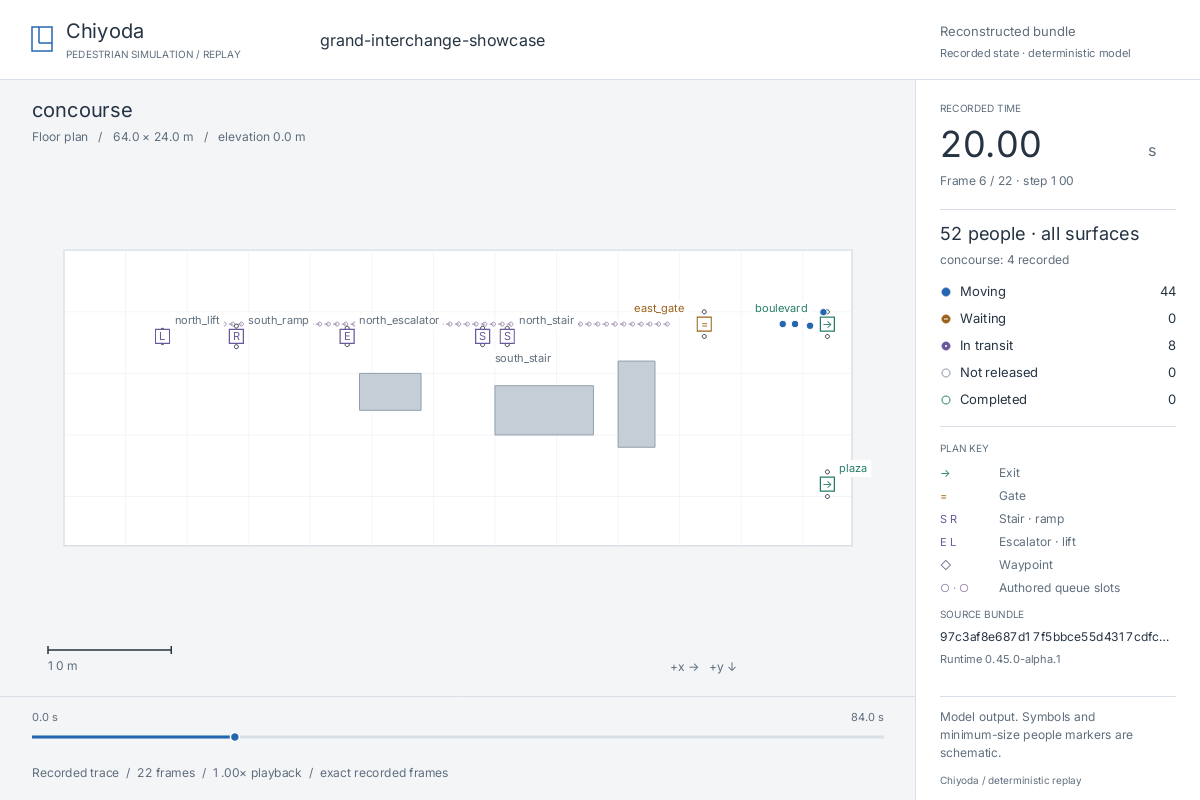
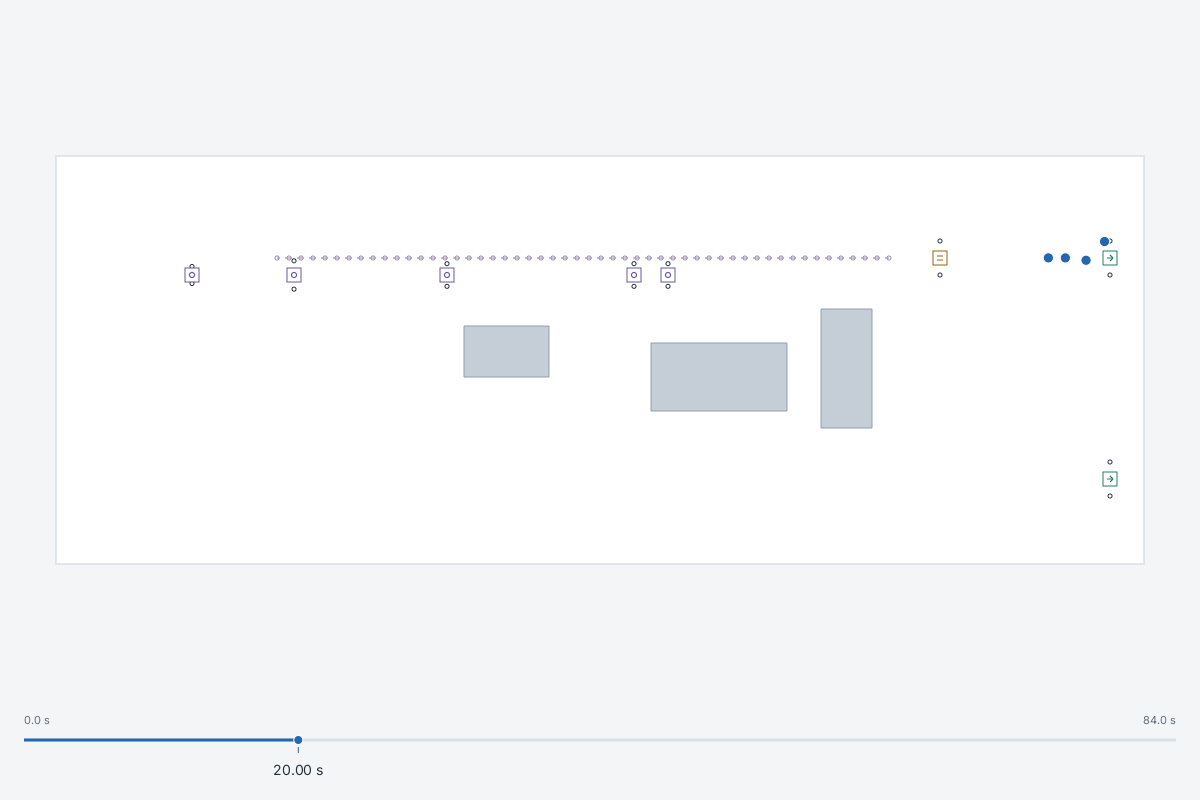
Refresh bare simulation previews and document verified rendering behavior

diff --git a/docs/replay.md b/docs/replay.md
@@ -36,10 +36,9 @@ does not mutate a running simulation. The default watch trace cadence is one
 integration step, which affects display smoothness only.
 
 An invalid edit leaves the most recent valid scene and trace on screen. The
-terminal prints the complete JSON, validation, or runtime diagnostic; the
-window and an in-canvas diagnostic panel identify the failed revision. Before
-the first valid source revision, the viewer displays an empty debug canvas with
-the current status and any read error.
+terminal prints the complete JSON, validation, or runtime diagnostic. Before
+the first valid source revision, the viewer displays an empty simulation canvas
+and an inactive progress track. Status and errors stay in the terminal.
 
 Watch runs are intentionally in-memory, unpersisted debug results. They are
 not hash-verified bundles and cannot be cited as a replayable experiment
@@ -62,7 +61,7 @@ included in full reconstruction; see [local knowledge](knowledge.md).
 
 ## Controls
 
-- Click a person to inspect it; Shift-click an exit, gate, connector endpoint,
+- Click a person to highlight it; Shift-click an exit, gate, connector endpoint,
   or waypoint to prefer the resource. Click empty plan space to clear selection.
 - Wheel or `+`/`-` zooms. Wheel zoom keeps the point under the pointer fixed.
   Drag with the right or middle button to pan. R restores the authored extent;
@@ -74,9 +73,6 @@ included in full reconstruction; see [local knowledge](knowledge.md).
 - Tab cycles surfaces in their authored declaration order. In comparisons,
   only IDs present in both runs are available.
 - V toggles the selected-surface 2D view and all-surface isometric overview.
-- D toggles the selected person's or resource's inspector. The single-run plan
-  uses the full width when no inspector is open. Clearing selection restores
-  that full plan; time, recorded step and outcome counts remain visible.
 - P writes the current framebuffer as a PNG under `--snapshot-dir` (default
   `out/chiyoda`). Existing snapshots are preserved. For evidence with
   provenance, use `--export-png` instead.
@@ -97,9 +93,11 @@ $ chiyoda view out/station/arms/baseline/run.json --paused --at-step 100 --agent
 $ chiyoda view out/station/arms/baseline/run.json --paused --resource exit:south
 ```
 
-The person inspector shows recorded state, the authored goal, latest recorded
-route decision, recent information/service events, and whole-run journey totals.
-Structured evidence also retains the recorded beliefs/knowledge snapshot. The authored destination is not presented as the
+Selection highlights the person and its recorded trail without opening a
+sidebar or changing the camera. PNG evidence sidecars and the agent tool retain
+recorded state, the authored goal, latest recorded route decision, recent
+information/service events, whole-run journey totals, and the recorded
+beliefs/knowledge snapshot. The authored destination is not presented as the
 current chosen destination. Where the runtime recorded a decision in event
 text, that text is retained without inventing an unrecorded route.
 
@@ -108,9 +106,9 @@ selected frame. It omits inactive and connector-transit segments. The last
 2,000 points are retained; `--trail-start-step N` can narrow the interval in a
 single-run view.
 Comparisons use each selected person's retained trail through its own frame.
-A trail is a sampled visual aid, not the distance measurement. Amber timeline
-bands show retained whole-run low-progress windows; ticks show retained
-recorded events through the frame.
+A trail is a sampled visual aid, not the distance measurement. Low-progress
+trail segments are amber. Low-progress windows and recorded events remain in
+the JSON evidence; the progress bar has no diagnostic bands or event ticks.
 
 Detailed distance, moving time, service waits, authored pauses, low-progress
 windows and movement fallback counts require the current runtime and a trace
@@ -119,12 +117,13 @@ recorded events, with an explicit unavailable reason for detailed accounting.
 Inspection re-derives journey accounting with the default analyzer options and
 records those options and the derived report hash. Separate journey reports
 with custom thresholds or isolated-agent controls retain their own evidence;
-the inspector does not import those controls. Whole-run totals and low-progress
+image evidence does not import those controls. Whole-run totals and low-progress
 windows include the complete run, even when viewing an earlier frame. Low progress is a diagnostic of movement exposure,
 not an additional mutually exclusive time-budget category.
 
-Resource inspection shows authored geometry, whole-run queue audit measurements,
-and recorded queue/service/availability events through the selected frame.
+Resource selection highlights its authored endpoints. JSON evidence retains
+whole-run queue audit measurements and recorded queue/service/availability
+events through the selected frame.
 Highlighted entrants are historical entrants through that time, not inferred
 current queue membership. The runtime does not record resource-attributed
 per-person wait durations; the viewer does not estimate them from proximity.
@@ -140,23 +139,26 @@ $ chiyoda view out/station/arms/baseline/run.json --compare out/station/arms/ann
 Both panels share one camera, authored coordinate extent, selected surface ID,
 and simulation clock. Different floor dimensions therefore keep the same metric
 scale. At a shared time, each panel shows its last recorded frame at or before
-that time; its exact timestamp and any hold duration remain visible. Seeking is
-restricted to the intersection of the recorded intervals. Missing surface IDs
-are rejected rather than matched by declaration order.
+that time; its exact timestamp and any hold duration remain in the JSON
+evidence. Seeking is restricted to the intersection of the recorded intervals.
+Missing surface IDs are rejected rather than matched by declaration order.
 
-Current-frame completion counts are separate from whole-run outcomes. The latter
-retain each run's own duration. Unfinished clearance and elapsed journeys remain
-unavailable. Population pairing requires equal seed and authored population
-inputs, excluding the knowledge intervention; a changed population disables
-individual elapsed-time pairing. A selected ID absent from one run is labelled
-unavailable in that panel. These are descriptive model observations; use the
-experiment report's validity and performance checks to assess an intervention.
+The comparison sidecar keeps current-frame completion counts separate from
+whole-run outcomes. The latter retain each run's own duration. Unfinished
+clearance and elapsed journeys remain unavailable. Population pairing requires
+equal seed and authored population inputs, excluding the knowledge intervention;
+a changed population disables individual elapsed-time pairing. A selected ID
+absent from one run has an unavailable reason in that panel's JSON evidence.
+These are descriptive model observations; use the experiment report's validity
+and performance checks to assess an intervention.
 
 Zoom, pan, timeline seeking, speed, projection, floor selection and person/resource
-selection operate together across both panels. Labels come from the input
-bundles' parent directory names. The PNG and `PATH.json` comparison sidecar use
-`chiyoda.replay-comparison.v1`, with both source hashes, shared camera bounds,
-recorded timestamps, request, selected evidence and measured differences.
+selection operate together across both panels. The baseline is always on the
+left and the candidate on the right. Neither pane has a visible label; the
+sidecar retains labels from the input bundles' parent directory names. The PNG
+and `PATH.json` comparison sidecar use `chiyoda.replay-comparison.v1`, with both
+source hashes, shared camera bounds, recorded timestamps, request, selected
+evidence and measured differences.
 
 ## Exact-frame PNG export
 
@@ -180,7 +182,7 @@ exclusive and cannot watch live source.
 
 Add `--agent ID` or `--resource KIND:ID` to export an annotated frame. The
 `chiyoda.replay-evidence.v1` sidecar includes the exact evidence used to draw the
-inspector, image SHA-256, source hashes, recorded timestamp, JSON pointers,
+selection highlights, image SHA-256, source hashes, recorded timestamp, JSON pointers,
 journey analyzer version/options/report hash, bounded events and trail. The
 native viewer and headless export share the same renderer.
 
@@ -224,11 +226,11 @@ The same recorded moment is available as an [isometric overview](../assets/demo/
 Both PNGs and the [showcase GIF](../assets/demo/grand-interchange-showcase.gif)
 have adjacent JSON provenance sidecars. They were exported from the current
 runtime's `grand-interchange-showcase` run, with a trace cadence of 20 steps.
-Their sidecars retain the renderer revision used for those earlier previews.
+The previews use renderer revision 5, with only the simulation and progress bar.
 
 The station experiment also has current annotated examples: a
-[person and low-progress periods](../assets/demo/replay-person.png), a
-[resource queue audit](../assets/demo/replay-resource.png), and a
+[person selection](../assets/demo/replay-person.png), a
+[resource selection](../assets/demo/replay-resource.png), and a
 [synchronized comparison](../assets/demo/replay-comparison.png). Each PNG has
 an adjacent `PNG.json` sidecar. Reproduce the source runs with
 `python3 examples/experiments/compare_station.py --output out/station --replay`,
@@ -244,40 +246,35 @@ $ chiyoda view out/showcase/run.json --surface concourse --at-step 100 --view ov
 
 ## Visual presentation
 
-The viewer uses one 1200×800 CPU vector renderer for native playback, PNGs,
-and GIFs. Single-run and comparison views share compact headings, outcome rows
-and the same full-width timeline. The time label follows the playhead and stays
-inside the timeline at either end. A single run uses the full plan width until
-a person or resource is selected; its contextual inspector then opens beside
-the plan. Branding banners, permanent dashboard legends and keyboard-help
-footers are omitted in both modes.
+The viewer uses one 1200×800 CPU vector renderer for native playback, plain and
+selected PNGs, GIFs, comparison images, and MCP image results. Every mode shows
+only the simulation and a progress bar. The bar retains start/end timestamps
+and the current time attached to its playhead. Before a watched scenario is
+available, only the inactive track is drawn.
 
-Spatial layers are clipped to the current plan viewport, including markers
-outside the camera extent. Drawing, mouse selection, zoom and focus use the
-same geometry when the inspector opens or closes. Watch failures retain the
-last valid plan and identify the failed revision below it.
+The scene always uses the same viewport, including when a person or resource
+is selected. Comparisons use two equally sized simulation panes and one shared
+bar. There are no headings, outcome rows, inspector panels, legends, map labels,
+scale bars, axis captions, metric grids, diagnostic timeline marks, or status
+banners. The native window title is simply `Chiyoda`.
 
-Floor plans preserve metric proportions with a uniform scale, a quiet metric
-grid, and a scale bar. The camera follows authored surface bounds rather than
+Spatial layers are clipped to the scene viewport. Drawing, mouse selection,
+zoom and focus use the same geometry. Floor plans preserve metric proportions
+with a uniform scale; the camera follows authored surface bounds rather than
 people's current positions. The overview uses the same fixed isometric
-projection for every surface and labels their authored elevations; overlapping
-floors can occlude geometry, so use a floor plan for detailed inspection.
+projection for every surface. Overlapping floors can occlude geometry, so use
+a floor plan for detailed inspection.
 
-Text uses a bundled Inter font under its included SIL Open Font License;
-no font installation or network connection is required. Timestamps and counts
-use tabular digits. Long names are ellipsized, and unavailable glyphs display
-as `?`. This is basic font rasterization, not a full text-shaping system.
-Resource labels are placed where space permits; dense plans may omit a label
-while retaining its symbol. Connector symbols identify stairs (`S`), ramps
-(`R`), escalators (`E`), and lifts (`L`).
+Timeline text uses the bundled Inter font with tabular digits. Export sidecars
+retain source hashes, renderer version, bundled font hash, selections and
+measurements. Watch errors and legacy hash-only notices stay in the terminal;
+images do not acquire warning or status overlays.
 
-The compact subtitle identifies legacy hash-only artifacts and unpersisted live
-previews. Export sidecars record the renderer version and bundled font hash.
-The unified presentation uses renderer revision **4**. Previously exported
-images keep their recorded revision; their source/hash checks remain available.
+The minimal presentation uses renderer revision **5**. Previously exported
+images keep their recorded revision; source/hash checks remain available.
 Exact pixel reconstruction requires the recorded renderer revision. The
-renderer is a derived presentation contract; changing its pixels does not change
-canonical simulation evidence.
+renderer is a derived presentation contract; changing its pixels does not
+change canonical simulation evidence.
 
 ## Rendering contract
 
@@ -290,16 +287,14 @@ blue, all released waits amber, in-transit agents purple, unreleased people
 hollow grey, and completed journeys hollow green. Moving people use filled
 circles; waits carry a small horizontal mark and transit markers a white centre.
 Inactive records are drawn first so an unreleased or completed record does not
-cover an active person at a shared position. Counts always include every
-recorded person, including inactive records. Outcome rows report all-surface
-counts and distinguish the displayed frame from the whole run.
-In-transit and unreleased people are included in the frame summary whenever
-present, so multi-floor transfers and staggered arrivals remain visible.
+cover an active person at a shared position. Structured evidence retains
+all-surface frame counts and whole-run outcomes, including in-transit and
+unreleased records; these measurements are not drawn on the canvas.
 
 People markers follow their authored group radius, with a 2.5-pixel minimum for
-legibility. Symbol outlines, minimum-size markers, and resource glyphs are
+legibility. Symbol outlines, minimum-size markers, and resource marks are
 schematic; their screen sizes do not measure crowd density or portal width.
-Static symbols distinguish waypoints, exits, gates, connector class, portal-lane
+Static symbols distinguish waypoints, exits, gates, connector endpoints, portal-lane
 centres, and queue geometry. The queue path and slots are authored placement
 geometry, not a measured queue, a claimed standing obstruction, or a density
 visualization.
@@ -349,5 +344,10 @@ On macOS, `scripts/replay_native_smoke.py --help` describes a repeatable check
 using OS keyboard/mouse events and Accessibility window inspection. It requires
 existing Accessibility access and Xcode tools, opens its own viewer, writes a new
 review directory, and restores the prior frontmost application and pointer.
-See the [inspection review](inspectable-replay-review.md) for measured results,
-reviewed outputs and verification limits.
+It compares native screenshots with headless reference PNGs rather than relying
+on diagnostic text in the window title. `scripts/replay_watch_smoke.py` checks
+missing-source, valid, invalid and corrected-source states against the same
+renderer. Both scripts require a new output directory. See the
+[minimal visualization review](minimal-visualization-review.md) for current
+results and the [inspection review](inspectable-replay-review.md) for earlier
+crowd measurements and verification limits.

diff --git a/docs/minimal-visualization-review.md b/docs/minimal-visualization-review.md
@@ -1,0 +1,101 @@
+# Minimal visualization review
+
+Full review of renderer revision 5. Scope: single runs, comparisons, selected
+people/resources, live watch, PNG/GIF exports, MCP images and committed previews.
+The implementation retains the existing minifb window, tiny-skia CPU canvas,
+bundled Inter font and semantic geometry colours. README.md is unchanged.
+
+Every visualization contains only the simulation and progress bar. Single runs
+use one fixed scene viewport; comparisons show the baseline on the left and
+candidate on the right. Selection adds spatial highlights and trails. Detailed
+measurements, IDs, route events, held-frame timestamps and provenance remain in
+JSON evidence and agent results. Watch errors and legacy notices remain in the
+terminal. The operating-system window title is `Chiyoda`.
+
+## Coverage
+
+| Category | Evidence inspected | Result |
+| --- | --- | --- |
+| Typography | Timeline drawing, numeric glyph advances and render-time text records | Only three timestamp labels are drawn for a loaded run. They use the existing tabular digits. Empty watch canvases have no text. |
+| Surfaces | Both projections, single/comparison clipping and transformed hit tests | The enlarged scene has fixed bounds. Selecting and clearing do not reserve space for a sidebar. |
+| Animations | Recorded-frame clock tests, GIF timing/export tests, regenerated floor/overview GIFs and native playback/seek checks | No cosmetic motion or new interpolation. Manual viewing at 10% speed is not verified. |
+| Icons | Exit, gate, connector and waypoint drawing; people and selected trails | Resource glyph text is replaced by geometric marks. Existing state colours and filled/hollow people remain. |
+| Performance | Persistent canvas/glyph/palette caches and native redraw reuse | Removing chrome does not add a drawing framework, external font or per-frame analysis pass. No new large-crowd benchmark was performed. |
+
+## Addressed findings
+
+Locations below are relative to `crates/chiyoda-replay/src/` unless specified.
+
+| Severity | Location | Before | After | Why |
+| --- | --- | --- | --- | --- |
+| MEDIUM | `render/mod.rs:132`, `render/compare.rs:12` | Titles, frame metadata, outcomes and selection summaries surround the simulation | Scene drawing followed only by the shared timeline | Apply the requested bare presentation to every renderer caller. |
+| MEDIUM | Removed `render/inspector.rs`, `render/scene.rs:17`, `viewer/native.rs:277` | Selecting a person opens a sidebar and changes the camera fit | One fixed viewport, shared by drawing and picking | Selection must not reintroduce panels or move the simulation. |
+| MEDIUM | `render/scene.rs:295` | Resource IDs, connector letters, floor names, grid, scale and axis/footer annotations | Authored geometry, resource marks, people and spatial selection only | Remove secondary visual furniture while preserving simulated geometry. |
+| MEDIUM | `render/chrome.rs:14`, `render/mod.rs:33` | Diagnostic ticks/bands and different time captions | Identical numeric timestamps and playhead; shared 64-pixel seek target | Retain one restrained bar and a usable desktop hit area. |
+| MEDIUM | `viewer/native.rs:129`, `viewer/mod.rs:247` | Changing title, loading copy and in-canvas errors | Fixed window name, blank loading scene and terminal diagnostics | Empty and failure states follow the same visual scope. |
+| MEDIUM | `evidence.rs:1`, `crates/chiyoda-cli/src/agent/tools.rs:120` | Evidence images include a text inspector | Spatial selection image plus unchanged structured measurements | Preserve agent capability while removing visual panels. |
+| MEDIUM | `scripts/replay_native_smoke.py:86`, `scripts/replay_watch_smoke.py:25` | Native checks depend on verbose titles and a narrower selected viewport; watch state changes lack a native pixel check | Compare window snapshots with exact headless PNGs and exercise watch failure/recovery | Validate controls without restoring the removed UI for automation. |
+| MEDIUM | `assets/demo/`, `docs/replay.md:246` | Bundled previews and documentation describe dashboards | Revision 5 previews and current behavior documentation | Keep examples consistent with the implementation. |
+
+## Considered but rejected
+
+| Location | Candidate | Rejected because |
+| --- | --- | --- |
+| Renderer options | Add an opt-in minimal theme beside the old dashboard | The requested behavior applies to every visualization. |
+| Evidence export | Remove diagnostic fields along with their panels | Agents and study analysis still need structured evidence. |
+| Spatial layout | Stretch geometry to fill the scene | Uniform metric proportions remain necessary for architecture comparisons. |
+
+## Verification
+
+The CLI/replay suite passed **83 tests**, including 14 agent/MCP checks, exact
+PNG receipts, campaign renderer-mismatch checks, both GIF timing paths, sparse
+evidence, source immutability and transformed picking. Formatting, workspace
+Clippy, locked release compilation and headless checks passed:
+
+```console
+CARGO_PROFILE_TEST_OPT_LEVEL=2 cargo test -p chiyoda -p chiyoda-replay --locked
+cargo fmt --all -- --check
+cargo clippy --workspace --all-targets --locked -- -D warnings
+cargo check -p chiyoda --all-targets --no-default-features --locked
+cargo check -p chiyoda-replay --lib --no-default-features --locked
+cargo build --release --locked -p chiyoda
+```
+
+Render-time assertions inspect every text draw and reject any text outside the
+timeline in both projections, with no selection, a person and a resource, in
+single and comparison views. Pixel checks reject chrome outside scene/timeline
+bounds. The empty-scene check permits only an unlabelled inactive track.
+Review captures were saved with `CHIYODA_REPLAY_REVIEW_DIR` and inspected.
+
+Actual macOS OS-input checks completed **25 checks for the single run and 27
+for comparison**, using the optimized debug binary. Ten window snapshots match
+headless references exactly, including selected views, zoom and overview.
+Both report only `Chiyoda` as their window title. The single-run driver measured
+29.36 window updates/s and the comparison 29.47; these include pacing and the
+reference exports, and are not a new crowd-performance claim.
+
+```console
+python3 scripts/replay_native_smoke.py --binary target/debug/chiyoda --bundle out/minimal-visualization-review/interactive/run.json --agent concourse_arrivals:0 --at-step 100 --output out/minimal-visualization-review/native-single
+python3 scripts/replay_native_smoke.py --binary target/debug/chiyoda --bundle out/minimal-visualization-review/station/arms/baseline/run.json --candidate out/minimal-visualization-review/station/arms/announcement/run.json --agent passengers:4 --at-step 100 --output out/minimal-visualization-review/native-comparison
+python3 scripts/replay_watch_smoke.py --output out/minimal-visualization-review/native-watch
+```
+
+The release watch check passed **four states**: missing source, valid source,
+invalid JSON and corrected geometry. The missing-source screenshot matches the
+empty renderer capture. Invalid JSON emits a terminal diagnostic and preserves
+the exact last-valid pixels. Corrected geometry matches its new headless
+reference and differs from the preceding scene.
+
+Release-generated plan, overview, person, resource, comparison and WFC PNGs were
+inspected. The release plan and comparison match the native driver screenshots
+byte for byte. All five committed PNG previews and the showcase GIF were
+regenerated with renderer 5. Their source bundle hashes, inspection/comparison
+objects and GIF timings are unchanged. Both floor-plan and overview GIF export
+were exercised. README.md and Cargo.lock remain unchanged.
+
+Historical reviews retain their original commands, renderer revisions and
+measurements. This review supersedes their descriptions of visible chrome.
+
+Verdict: **Approve**. No actionable interface findings remain. Manual motion
+review at 10% speed and a new large-crowd performance benchmark were not run;
+simulation timing and the existing cache strategy are unchanged.

diff --git a/docs/agent-experiments.md b/docs/agent-experiments.md
@@ -269,6 +269,10 @@ recorded replay step to request an inspectable image:
 }
 ```
 
+The PNG shows only the simulation, selection highlights and progress bar.
+Measurements, route decisions, resource IDs, diagnostics and provenance stay
+in the structured result and JSON sidecar; there is no inspector panel.
+
 Pass that object to `chiyoda_render_evidence`, using either `agent call` or MCP.
 For a resource, use `{"kind":"resource","resource_kind":"exit","id":"south"}`.
 Resource kinds are `exit`, `gate`, `connector` and `waypoint`; lifts use

diff --git a/docs/replay-visual-review.md b/docs/replay-visual-review.md
@@ -1,5 +1,9 @@
 # Replay presentation review
 
+The current [minimal visualization review](minimal-visualization-review.md)
+supersedes the visible chrome described here. This document records the earlier
+presentation and its measurements.
+
 Follow-up: the [inspectable replay review](inspectable-replay-review.md) adds
 inspection/comparison and verifies native OS controls and crowd performance.
 

diff --git a/docs/inspectable-replay-review.md b/docs/inspectable-replay-review.md
@@ -1,5 +1,8 @@
 # Inspectable replay review
 
+Renderer revision 5 now uses [simulation and progress bar only](minimal-visualization-review.md).
+The sections below record earlier presentations and their verification.
+
 ## One Chiyoda executable
 
 The native viewer now runs as `chiyoda view`; there is no separate viewer
